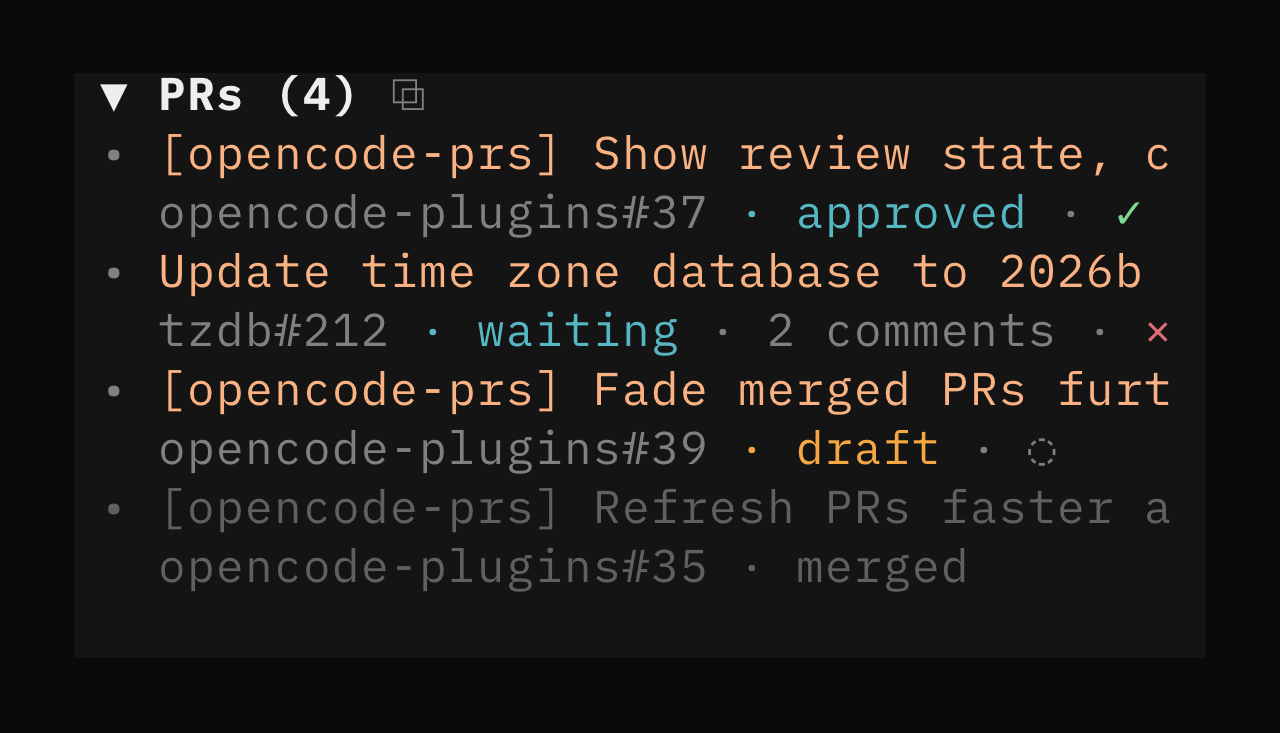
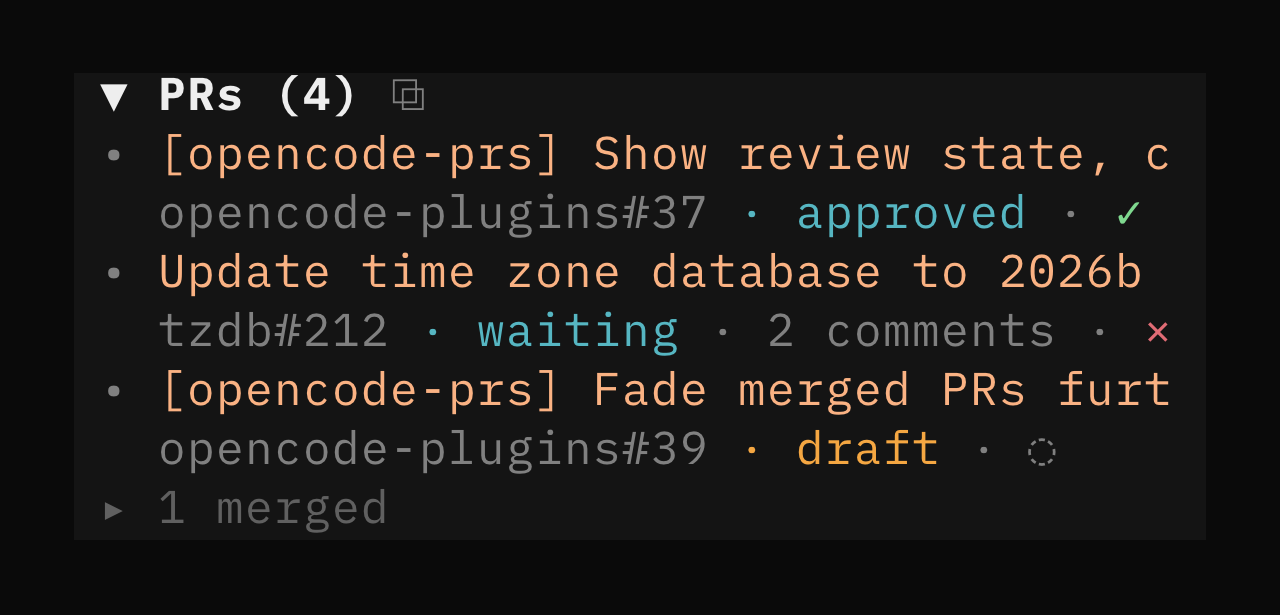
[opencode-prs] fold merged PRs behind a one-line summary

diff --git a/packages/prs/src/tui.tsx b/packages/prs/src/tui.tsx
@@ -7,6 +7,7 @@ import type { TuiPlugin, TuiPluginApi } from "@opencode-ai/plugin/tui"
 import type { Plugin } from "plugin-v2/tui"
 import {
   extractCreatedPullRequests,
+  groupPullRequests,
   marquee,
   predatesSession,
   pullRequestChecksIndicator,
@@ -350,9 +351,12 @@ function PullRequests(props: {
 }) {
   const cache = getSessionCache(props.sessionID)
   const [open, setOpen] = createSignal(true)
+  const [showMerged, setShowMerged] = createSignal(false)
   const [prs, setPrs] = createSignal<PullRequest[]>(cache.prs)
   const [unavailable, setUnavailable] = createSignal(cache.unavailable)
-  const visiblePrs = () => sortPullRequests(prs()).slice(0, MAX_VISIBLE_PRS)
+  const groups = () => groupPullRequests(prs())
+  const activePrs = () => groups().active.slice(0, MAX_VISIBLE_PRS)
+  const mergedPrs = () => groups().merged.slice(0, Math.max(0, MAX_VISIBLE_PRS - activePrs().length))
   let mounted = true
   let focused = props.focused?.() ?? true
   let observedRefsKey = pullRequestRefsKey(props.refs())
@@ -433,7 +437,7 @@ function PullRequests(props: {
       <Show when={open()}>
         <Show when={unavailable()}><text fg={props.subdued}>GitHub unavailable</text></Show>
         <Show when={!unavailable() && prs().length === 0}><text fg={props.subdued}>No PRs</text></Show>
-        <For each={visiblePrs()}>{(pr) => (
+        <For each={activePrs()}>{(pr) => (
           <PullRequestRow
             pr={pr}
             subdued={props.subdued}
@@ -445,6 +449,25 @@ function PullRequests(props: {
             copy={props.copy}
           />
         )}</For>
+        <Show when={groups().merged.length > 0}>
+          <box flexDirection="row" onMouseUp={() => setShowMerged((value) => !value)}>
+            <text fg={fade(props.subdued, MERGED_OPACITY)}>{showMerged() ? "▾" : "▸"} {groups().merged.length} merged</text>
+          </box>
+          <Show when={showMerged()}>
+            <For each={mergedPrs()}>{(pr) => (
+              <PullRequestRow
+                pr={pr}
+                subdued={props.subdued}
+                link={props.link}
+                draft={props.draft}
+                open={props.open}
+                success={props.success}
+                error={props.error}
+                copy={props.copy}
+              />
+            )}</For>
+          </Show>
+        </Show>
       </Show>
     </box>
   )

diff --git a/packages/prs/test/prs.test.js b/packages/prs/test/prs.test.js
@@ -1,6 +1,6 @@
 import assert from "node:assert/strict"
 import { test } from "node:test"
-import { extractCreatedPullRequests, extractPullRequests, marquee, predatesSession, pullRequestChecks, pullRequestChecksIndicator, pullRequestCommentsLabel, pullRequestFromNode, pullRequestFromRest, pullRequestLabel, pullRequestStatus, pullRequestStatusLabel, pullRequestsQuery, slackPullRequest, slackPullRequestHtml, slackPullRequests, slackPullRequestsHtml, slackPullRequestsTexty, sortPullRequests, truncate, uniquePullRequests } from "../dist/prs.js"
+import { extractCreatedPullRequests, extractPullRequests, groupPullRequests, marquee, predatesSession, pullRequestChecks, pullRequestChecksIndicator, pullRequestCommentsLabel, pullRequestFromNode, pullRequestFromRest, pullRequestLabel, pullRequestStatus, pullRequestStatusLabel, pullRequestsQuery, slackPullRequest, slackPullRequestHtml, slackPullRequests, slackPullRequestsHtml, slackPullRequestsTexty, sortPullRequests, truncate, uniquePullRequests } from "../dist/prs.js"
 
 test("extracts and normalizes GitHub pull request links", () => {
   assert.deepEqual(extractPullRequests("See https://github.com/vvo/opencode-plugins/pull/12/files"), [{
@@ -158,6 +158,22 @@ test("sorts open, draft, and merged PRs by recency", () => {
     pr(5, "MERGED", false, "2026-09-04T13:00:00Z", "2026-09-04T14:00:00Z"),
   ])
   assert.deepEqual(sorted.map(({ number }) => number), [4, 3, 2, 1, 5])
+})
+
+test("groups merged PRs behind the active ones", () => {
+  const pr = (number, state, isDraft, createdAt, mergedAt = null) => ({
+    owner: "vvo", repo: "repo", number, url: `https://github.com/vvo/repo/pull/${number}`,
+    title: String(number), state, isDraft, reviewDecision: null, unresolvedThreads: 0, checks: "none", createdAt, mergedAt, additions: 4, deletions: 2,
+  })
+  const groups = groupPullRequests([
+    pr(1, "MERGED", false, "2026-09-04T10:00:00Z", "2026-09-05T10:00:00Z"),
+    pr(2, "OPEN", true, "2026-09-04T12:00:00Z"),
+    pr(3, "OPEN", false, "2026-09-04T09:00:00Z"),
+    pr(5, "MERGED", false, "2026-09-04T13:00:00Z", "2026-09-04T14:00:00Z"),
+  ])
+  assert.deepEqual(groups.active.map(({ number }) => number), [3, 2])
+  assert.deepEqual(groups.merged.map(({ number }) => number), [1, 5])
+  assert.deepEqual(groupPullRequests([]), { active: [], merged: [] })
 })
 
 test("formats a PR for Slack", () => {

diff --git a/packages/prs/src/prs.ts b/packages/prs/src/prs.ts
@@ -130,6 +130,15 @@ export function sortPullRequests(prs: PullRequest[]): PullRequest[] {
   })
 }
 
+/** Sorted PRs split so merged ones can fold behind a one-line summary and never push open work out of view. */
+export function groupPullRequests(prs: PullRequest[]): { active: PullRequest[]; merged: PullRequest[] } {
+  const sorted = sortPullRequests(prs)
+  return {
+    active: sorted.filter((pr) => pr.state !== "MERGED"),
+    merged: sorted.filter((pr) => pr.state === "MERGED"),
+  }
+}
+
 export function slackPullRequest(pr: PullRequest): string {
   return `:pr: *${pr.owner}/${pr.repo}* · <${pr.url}|${pr.title} (#${pr.number})> +${pr.additions}/-${pr.deletions}`
 }

diff --git a/scripts/screenshots/prs.py b/scripts/screenshots/prs.py
@@ -14,19 +14,19 @@ How it works:
    lists four PRs. `scripts/screenshots/gh` shadows the real `gh` on PATH and
    answers the batched GraphQL query with canned data that covers approved +
    checks passing, waiting + comments + checks failing, draft + checks pending,
-   and merged.
+   and merged (folded behind the `▸ 1 merged` line).
 2. Starts `opencode --session ...` inside a detached tmux pane with a private
    XDG_CONFIG_HOME so the theme mode and plugin list do not touch ~/.config.
 3. Captures the pane with `tmux capture-pane -e` (keeps the SGR colors), then
    injects SGR mouse-motion events at the first title so the real hover
    marquee runs, sampling one capture per marquee step.
-4. Renders each capture to a 1280x733 PNG with headless Chrome: IBM Plex Mono
+4. Renders each capture to a 1280px wide PNG with headless Chrome: IBM Plex Mono
    from Google Fonts, 29px cells, 59px lines, panel at (74,73), same geometry
    as the earlier hand-made assets. A cursor SVG is placed on the lower half
    of the first title for the animation frames.
 5. Assembles the GIF: 1.1s rest, 120ms per marquee step, 2.1s rest, plays once.
 
-Outputs assets/prs-<mode>.png and assets/prs-hover-<mode>-v3.gif.
+Outputs assets/prs-<mode>.png and assets/prs-hover-<mode>-v4.gif.
 Bump the gif suffix (and the README references) when the animation changes:
 GitHub caches by filename.
 """
@@ -37,7 +37,7 @@ ROOT = os.path.dirname(os.path.dirname(HERE))
 ASSETS = os.path.join(ROOT, "assets")
 PLUGIN = os.path.join(ROOT, "packages/prs/dist")
 SESSION = "ses_screenshots0000000000prs"
-GIF_SUFFIX = "v3"
+GIF_SUFFIX = "v4"
 CHROME = "/Applications/Google Chrome.app/Contents/MacOS/Google Chrome"
 
 PR_URLS = [  # order of creation, sidebar sorts them itself
@@ -47,14 +47,15 @@ PR_URLS = [  # order of creation, sidebar sorts them itself
     "https://github.com/vvo/opencode-plugins/pull/37",
 ]
 FIRST_TITLE = "[opencode-prs] Show"   # top row after sorting, gets hovered
-LAST_META = "#35 · merged"            # bottom row, proves everything rendered
+LAST_META = "▸ 1 merged"              # bottom row, proves everything rendered
 
 # Render geometry (matches the previous assets)
-COLS, ROWS = 38, 10
+COLS, ROWS = 38, 8
 CELL_W, CELL_H = 29, 59
 PAD_X, PAD_Y = 74, 73
 FONT_PX = 46
 PANEL_W = 1132
+PAGE_H = PAD_Y + ROWS * CELL_H + 70
 CURSOR = (20.4, 1.55)  # cell units from the "▼": lower half of the first title
 CURSOR_SVG = """<svg xmlns="http://www.w3.org/2000/svg" width="28" height="42" viewBox="0 0 14 21">
 <path d="M1 1 L1 16 L4.6 12.6 L7.4 19.2 L10 18.1 L7.3 11.6 L12.2 11.6 Z" fill="#fff" stroke="#000" stroke-width="1.1" stroke-linejoin="round"/>
@@ -223,7 +224,7 @@ def to_html(capture, cursor):
     return f"""<!doctype html><html><head><meta charset="utf-8">
 <link href="https://fonts.googleapis.com/css2?family=IBM+Plex+Mono:wght@400;700&display=swap" rel="stylesheet">
 <style>
-html,body{{margin:0;background:{page_bg};width:1280px;height:733px;overflow:hidden}}
+html,body{{margin:0;background:{page_bg};width:1280px;height:{PAGE_H}px;overflow:hidden}}
 #panel{{position:absolute;left:{PAD_X}px;top:{PAD_Y}px;width:{PANEL_W}px;height:{ROWS * CELL_H - 5}px;background:{panel_bg}}}
 pre{{position:absolute;left:{PAD_X + 26}px;top:{PAD_Y - 9}px;margin:0;color:{panel_bg};letter-spacing:{CELL_W - FONT_PX * 0.6}px;
     font:400 {FONT_PX}px/{CELL_H}px 'IBM Plex Mono',monospace;-webkit-font-smoothing:antialiased;white-space:pre}}
@@ -240,7 +241,7 @@ def render(captures, outdir, cursor=None):
         open(page, "w", encoding="utf8").write(to_html(capture, cursor))
         png = os.path.join(outdir, f"{name}.png")
         run(CHROME, "--headless=new", "--disable-gpu", "--hide-scrollbars", "--virtual-time-budget=5000",
-            "--force-device-scale-factor=1", "--window-size=1280,733", f"--screenshot={png}", f"file://{page}")
+            "--force-device-scale-factor=1", f"--window-size=1280,{PAGE_H}", f"--screenshot={png}", f"file://{page}")
         pngs.append(png)
     return pngs
 

diff --git a/packages/prs/README.md b/packages/prs/README.md
@@ -3,11 +3,11 @@
 [OpenCode](https://opencode.ai) TUI plugin that lists GitHub pull requests opened by the current session.
 
 <picture>
-  <source media="(prefers-color-scheme: dark)" srcset="../../assets/prs-hover-dark-v3.gif">
-  <img src="../../assets/prs-hover-light-v3.gif" alt="Pull request titles scrolling on hover in the OpenCode sidebar" width="640">
+  <source media="(prefers-color-scheme: dark)" srcset="../../assets/prs-hover-dark-v4.gif">
+  <img src="../../assets/prs-hover-light-v4.gif" alt="Pull request titles scrolling on hover in the OpenCode sidebar" width="640">
 </picture>
 
-The sidebar section is collapsible. Each pull request uses a full-width linked title with its muted `repository#number` and colored status below: `approved` or `waiting` for open pull requests, `draft`, or `merged`. Open pull requests also show unresolved review comments and a checks indicator: `✓` passing, `×` failing, `◌` pending. Merged pull requests use subdued colors so open work stays prominent. Hover a clipped title to scroll through its full text once. Click a status line to copy that PR as a Slack-ready summary, or `⧉` in the header to copy the whole list, confirmed with a toast.
+The sidebar section is collapsible. Each pull request uses a full-width linked title with its muted `repository#number` and colored status below: `approved` or `waiting` for open pull requests, `draft`, or `merged`. Open pull requests also show unresolved review comments and a checks indicator: `✓` passing, `×` failing, `◌` pending. Merged pull requests fold into one `▸ 3 merged` line under the open ones; click it to list them in subdued colors, so open work stays prominent. Hover a clipped title to scroll through its full text once. Click a status line to copy that PR as a Slack-ready summary, or `⧉` in the header to copy the whole list, confirmed with a toast.
 
 ## Install
 
@@ -27,7 +27,7 @@ Then restart OpenCode. The plugin requires an installed and authenticated [GitHu
 
 ## How it works
 
-The plugin finds successful `gh pr create` calls made by the session, plus REST fallbacks that POST to `gh api repos/<owner>/<repo>/pulls`. It fetches every pull request of a session in one GraphQL request through `gh`, and falls back to the REST API per pull request when GraphQL fails, for example when its rate limit is exhausted. Closed pull requests are hidden, while merged pull requests remain visible. The sidebar shows up to ten pull requests, ordered by open, draft, then merged, with the newest first in each group.
+The plugin finds successful `gh pr create` calls made by the session, plus REST fallbacks that POST to `gh api repos/<owner>/<repo>/pulls`. It fetches every pull request of a session in one GraphQL request through `gh`, and falls back to the REST API per pull request when GraphQL fails, for example when its rate limit is exhausted. Closed pull requests are hidden, while merged pull requests remain visible behind the fold. The sidebar shows up to ten pull requests, ordered by open, draft, then merged, with the newest first in each group; merged ones only take the rows the active ones leave free.
 
 A forked session only lists pull requests created after the fork. Messages copied from the parent keep their original timestamps, so anything older than the fork itself is skipped.
 

diff --git a/AGENTS.md b/AGENTS.md
@@ -20,7 +20,7 @@ This repository publishes independent OpenCode TUI plugins from `packages/`.
 ## Screenshots
 
 - Update the light and dark `opencode-prs` screenshots and hover GIFs when its visible output changes.
-- Keep `assets/prs-light.png`, `assets/prs-dark.png`, `assets/prs-hover-light-v3.gif`, and `assets/prs-hover-dark-v3.gif` in sync with the current UI.
+- Keep `assets/prs-light.png`, `assets/prs-dark.png`, `assets/prs-hover-light-v4.gif`, and `assets/prs-hover-dark-v4.gif` in sync with the current UI.
 - Regenerate them with `pnpm build && python3 scripts/screenshots/prs.py`. It needs the OpenCode 2 background service, `tmux`, Google Chrome, `magick`, and `gifsicle`. It imports a fake session, runs the real TUI in tmux with a private `XDG_CONFIG_HOME`, shadows `gh` with `scripts/screenshots/gh` for canned PR data, injects mouse motion for the hover marquee, and renders the captured cells through headless Chrome with IBM Plex Mono. The script docstring has the details.
 - Change the PR mix in `scripts/screenshots/gh` (one PR per visible state, keep it to four rows). Bump `GIF_SUFFIX` in `prs.py` and the README references when the animation changes: GitHub caches GIFs by filename.
 - The cursor in the GIF sits on the lower half of the first title, slightly right of center (`CURSOR` in `prs.py`). Keep it there.

diff --git a/README.md b/README.md
@@ -25,8 +25,8 @@ Shows GitHub pull requests opened by the current session. Every title links to G
 
 <a href="packages/prs">
   <picture>
-    <source media="(prefers-color-scheme: dark)" srcset="assets/prs-hover-dark-v3.gif">
-    <img src="assets/prs-hover-light-v3.gif" alt="Pull requests opened by an OpenCode session" width="640">
+    <source media="(prefers-color-scheme: dark)" srcset="assets/prs-hover-dark-v4.gif">
+    <img src="assets/prs-hover-light-v4.gif" alt="Pull requests opened by an OpenCode session" width="640">
   </picture>
 </a>
 

diff --git a/.changeset/collapse-merged-prs.md b/.changeset/collapse-merged-prs.md
@@ -1,0 +1,5 @@
+---
+"opencode-prs": minor
+---
+
+Fold merged pull requests behind a one-line `▸ N merged` summary under the open ones. Click it to expand them. Open and draft PRs keep their two-line rows and are never pushed out of the ten visible rows by merged ones.
